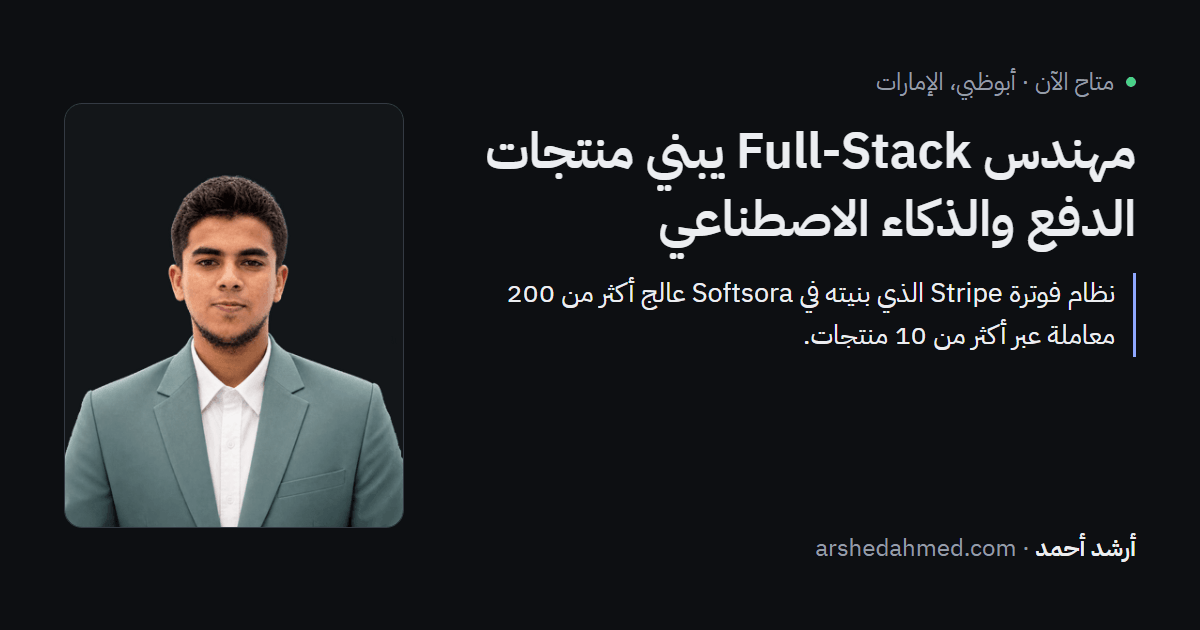
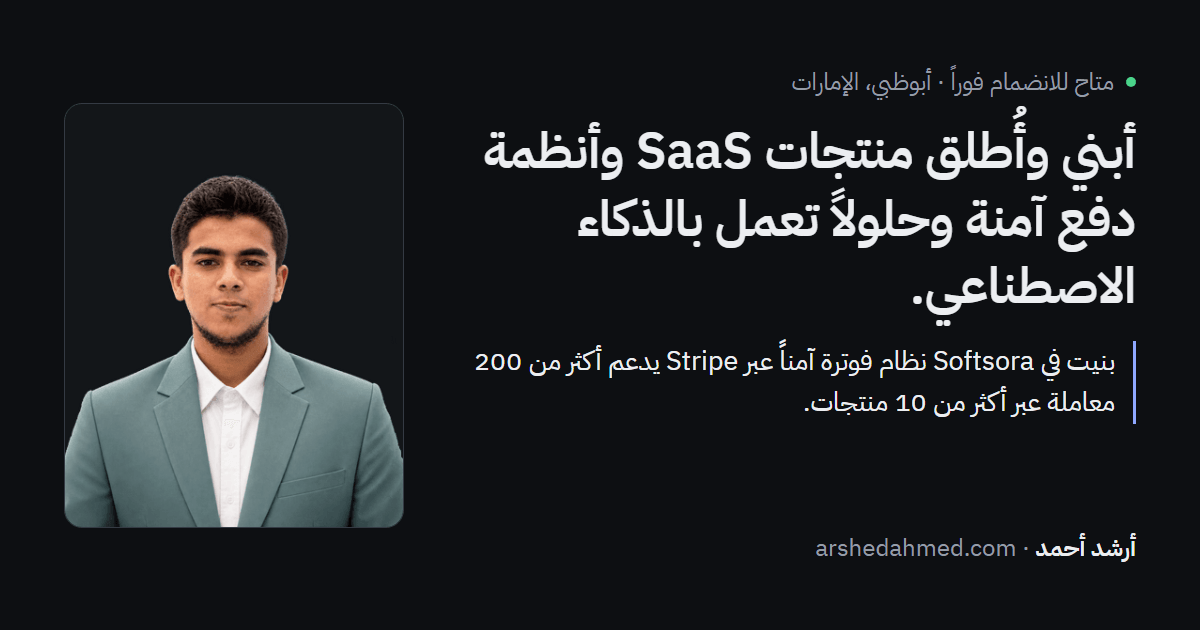
Reposition the hero around delivery
- Headline: 'I build and ship SaaS, secure payment systems and AI-powered products.'
- Lede states 4+ years building software, 2 of them full-time (honest split), and the full
  lifecycle; proof line labelled 'Proven delivery' and names secure Stripe billing.
- Role in the identity line (the header already shows the name); visa moves out of the hero
  (still in Contact and About); 'Open to opportunities across the UAE'; 'Explore my work'.
- Meta title/description and the shared positioning line follow the new message; Arabic OG
  card re-rendered. Spacing tuned so the CV button stays above the fold at 375x667 and
  1280x800 in both languages.

Changed region(s): [[0.4008, 0.0905, 0.9558, 0.4222], [0.4008, 0.4222, 0.9558, 0.6635]]

diff --git a/src/components/sections/hero.tsx b/src/components/sections/hero.tsx
@@ -1,4 +1,4 @@
-import { ArrowDown, BadgeCheck, CalendarCheck, Download, MapPin, Plane } from "lucide-react";
+import { ArrowDown, BadgeCheck, Download, MapPin } from "lucide-react";
 import { useLocale, useTranslations } from "next-intl";
 import Image from "next/image";
 import { ButtonLink } from "@/components/ui/button";
@@ -6,8 +6,8 @@ import { SocialLinks } from "@/components/ui/social-links";
 import { cvFor } from "@/lib/cv";
 
 /**
- * 5-second test, in reading order: who (name, role) -> value (headline) -> proof (one number) -> availability
- * (notice, visa, place) -> one primary action. The portrait is a small avatar on phones so the headline and proof
+ * 5-second test, in reading order: role + availability -> value (headline) -> proof (one number) -> where
+ * (UAE-wide) -> one primary action. Work authorisation lives in Contact, not here. The portrait is a small avatar on phones so the headline and proof
  * sit above the fold at 375x667; from md it becomes the right-hand column (halo effect, first impression).
  */
 export function Hero() {
@@ -15,15 +15,11 @@ export function Hero() {
   const common = useTranslations("common");
   const locale = useLocale();
   const cv = cvFor(locale);
-  const facts = [
-    { key: "notice", Icon: CalendarCheck },
-    { key: "visa", Icon: Plane },
-    { key: "location", Icon: MapPin },
-  ] as const;
+  const facts = [{ key: "openTo", Icon: MapPin }] as const;
 
   return (
     <section id="top" aria-labelledby="hero-title" className="overflow-x-clip">
-      <div className="container-page grid items-center gap-10 pt-6 pb-12 md:grid-cols-[minmax(0,1fr)_minmax(0,22rem)] md:pt-16 md:pb-20 lg:grid-cols-[minmax(0,1fr)_minmax(0,26rem)] lg:gap-16 lg:pt-20 lg:pb-24">
+      <div className="container-page grid items-center gap-10 pt-5 pb-12 md:grid-cols-[minmax(0,1fr)_minmax(0,22rem)] md:pt-12 md:pb-20 lg:grid-cols-[minmax(0,1fr)_minmax(0,24rem)] lg:gap-14 lg:pt-12 lg:pb-24">
         <div className="flex flex-col items-start">
           {/* Who: avatar (phones only) + name + availability. */}
           <div className="flex items-center gap-3">
@@ -39,9 +35,8 @@ export function Hero() {
               />
             </div>
             <div>
-              {/* The name repeats the header's on phones on purpose: the headline below already carries the role,
-                  and the face + name pairing is what people remember. */}
-              <p className="text-base font-semibold text-fg">{common("name")}</p>
+              {/* The header already shows the name, so this line carries the professional identity. */}
+              <p className="kicker text-fg">{common("jobTitle")}</p>
               <p className="flex items-center gap-2 text-sm text-muted">
                 <span aria-hidden="true" className="pulse-dot relative size-1.5 shrink-0 rounded-full bg-live text-live" />
                 {common("status")}
@@ -49,19 +44,23 @@ export function Hero() {
             </div>
           </div>
 
-          <h1 id="hero-title" className="mt-6 max-w-[20ch] text-display font-semibold md:mt-8">
+          <h1 id="hero-title" className="mt-5 max-w-[23ch] text-display font-semibold md:mt-6 lg:max-w-[25ch]">
             {t("headline")}
           </h1>
 
-          <p className="mt-4 max-w-[60ch] text-base text-pretty text-fg-2 md:mt-6 md:text-lg">{t("lede")}</p>
+          <p className="mt-4 max-w-[60ch] text-base text-pretty text-fg-2 md:mt-5 md:text-lg">{t("lede")}</p>
 
-          {/* The single strongest number, anchored right under the value proposition. */}
-          <p className="mt-5 flex max-w-[60ch] items-start gap-2.5 border-s-2 border-accent ps-3 text-sm font-medium text-pretty text-fg md:text-base">
-            <BadgeCheck size={18} aria-hidden="true" className="mt-0.5 shrink-0 text-accent max-md:hidden" />
-            {t("proof")}
-          </p>
+          {/* The single strongest number, labelled as evidence, right under the value proposition. */}
+          <div className="mt-4 max-w-[60ch] border-s-2 border-accent ps-3 md:mt-5">
+            <p className="kicker flex items-center gap-1.5 text-accent">
+              <BadgeCheck size={14} aria-hidden="true" className="shrink-0" />
+              {t("proofLabel")}
+            </p>
+            <p className="mt-1.5 text-sm font-medium text-pretty text-fg md:text-base">{t("proof")}</p>
+          </div>
 
-          <ul aria-label={t("factsAria")} className="mt-5 flex flex-wrap gap-x-5 gap-y-2 text-sm text-muted">
+          {/* Availability and place are in the status line above; work authorisation is in Contact, not the hero. */}
+          <ul aria-label={t("factsAria")} className="mt-4 flex flex-wrap gap-x-5 gap-y-2 text-sm text-muted md:mt-5">
             {facts.map(({ key, Icon }) => (
               <li key={key} className="inline-flex items-center gap-1.5">
                 <Icon size={15} aria-hidden="true" className="shrink-0" />
@@ -70,7 +69,7 @@ export function Hero() {
             ))}
           </ul>
 
-          <div className="mt-7 flex w-full flex-col gap-3 min-[400px]:w-auto min-[400px]:flex-row min-[400px]:flex-wrap md:mt-9">
+          <div className="mt-6 flex w-full flex-col gap-3 min-[400px]:w-auto min-[400px]:flex-row min-[400px]:flex-wrap md:mt-7">
             <ButtonLink href={cv.href} hrefLang={cv.lang} download>
               <Download size={16} aria-hidden="true" />
               {cv.lang === locale ? common("downloadCv") : common("downloadCvEnglish")}
@@ -94,7 +93,7 @@ export function Hero() {
               height={1200}
               preload
               // Last entry: phones hide this column, so their preload resolves to the smallest candidate.
-              sizes="(min-width: 1024px) 416px, (min-width: 768px) 352px, 48px"
+              sizes="(min-width: 1024px) 384px, (min-width: 768px) 352px, 48px"
               className="photo-cutout absolute inset-x-0 bottom-0 h-[92%] w-full object-cover object-top"
             />
           </div>
